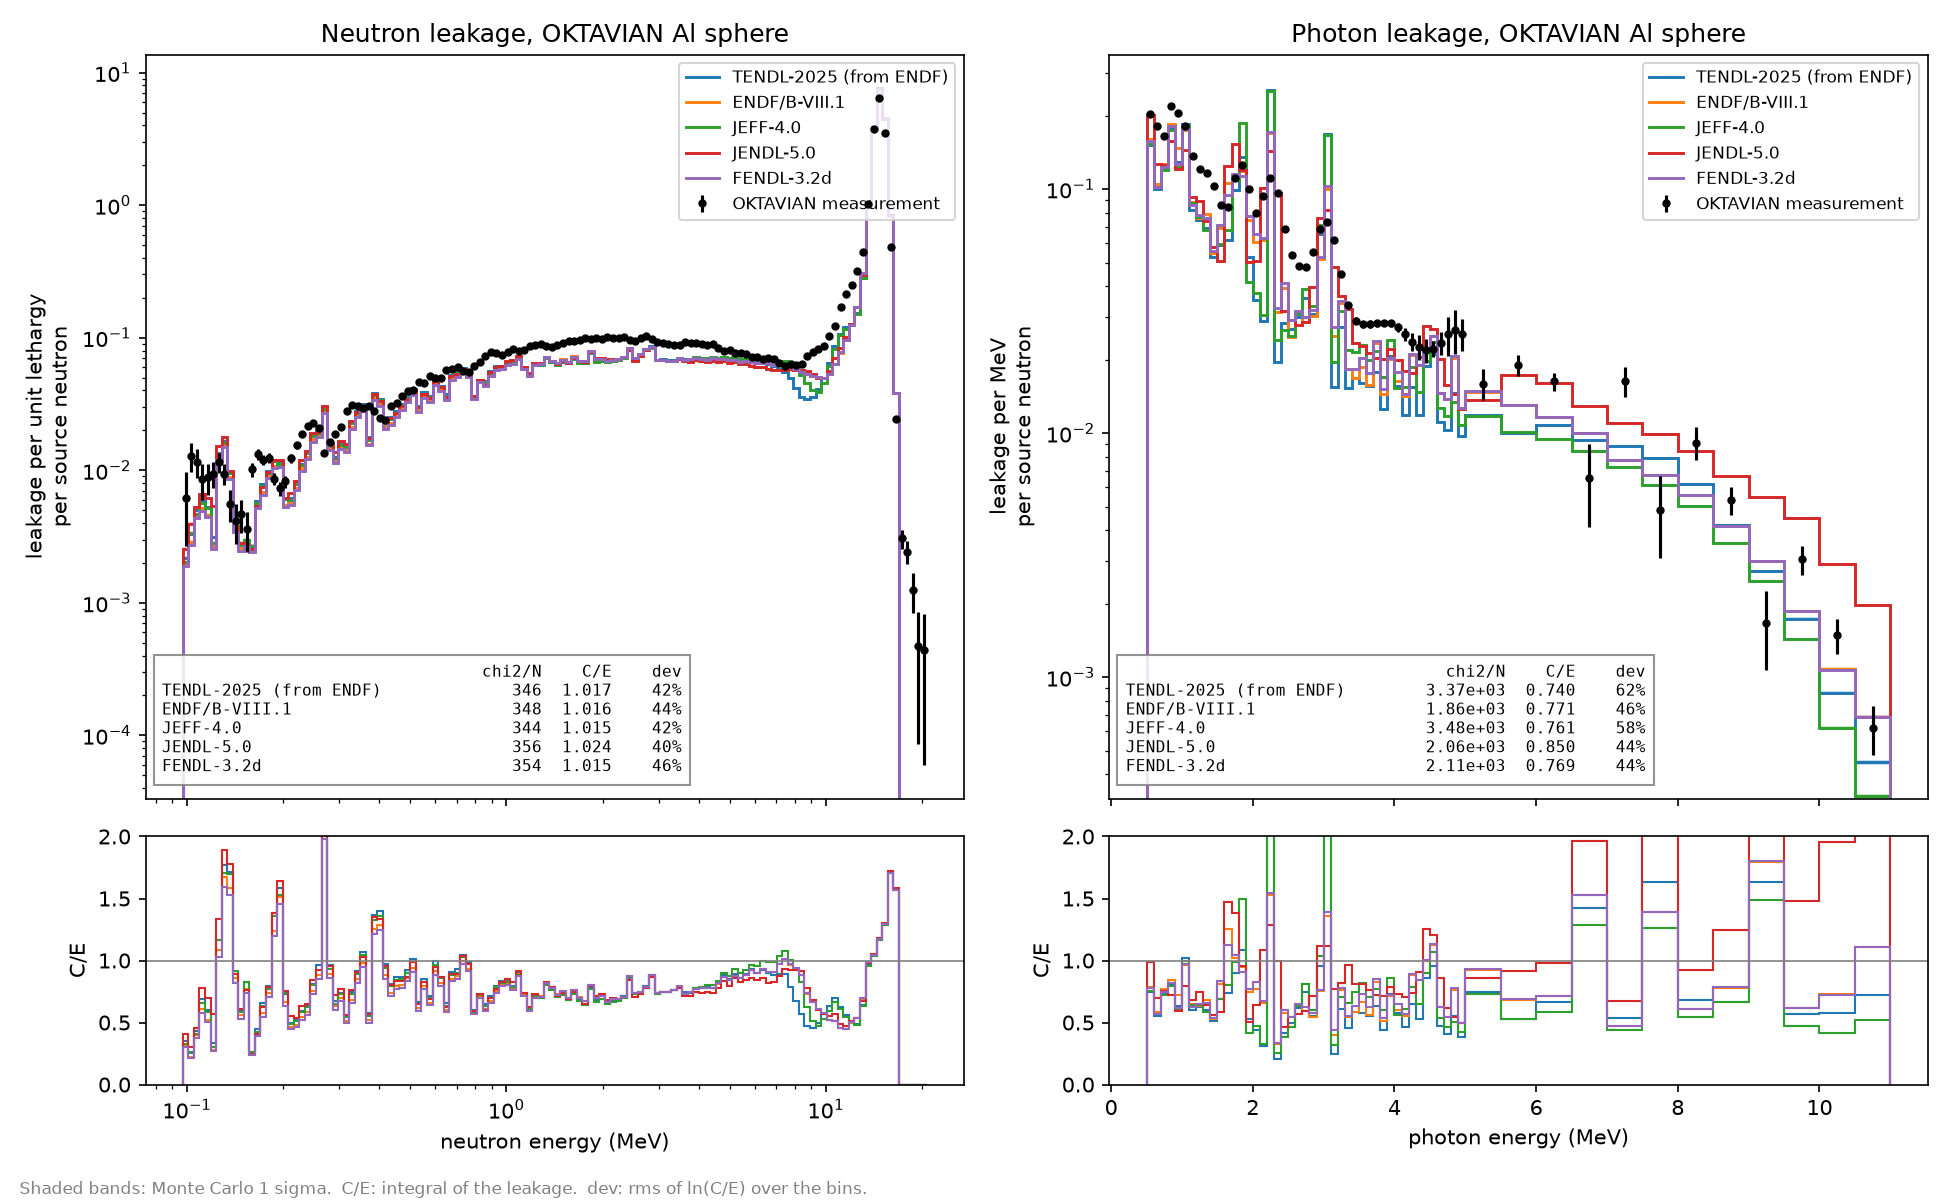
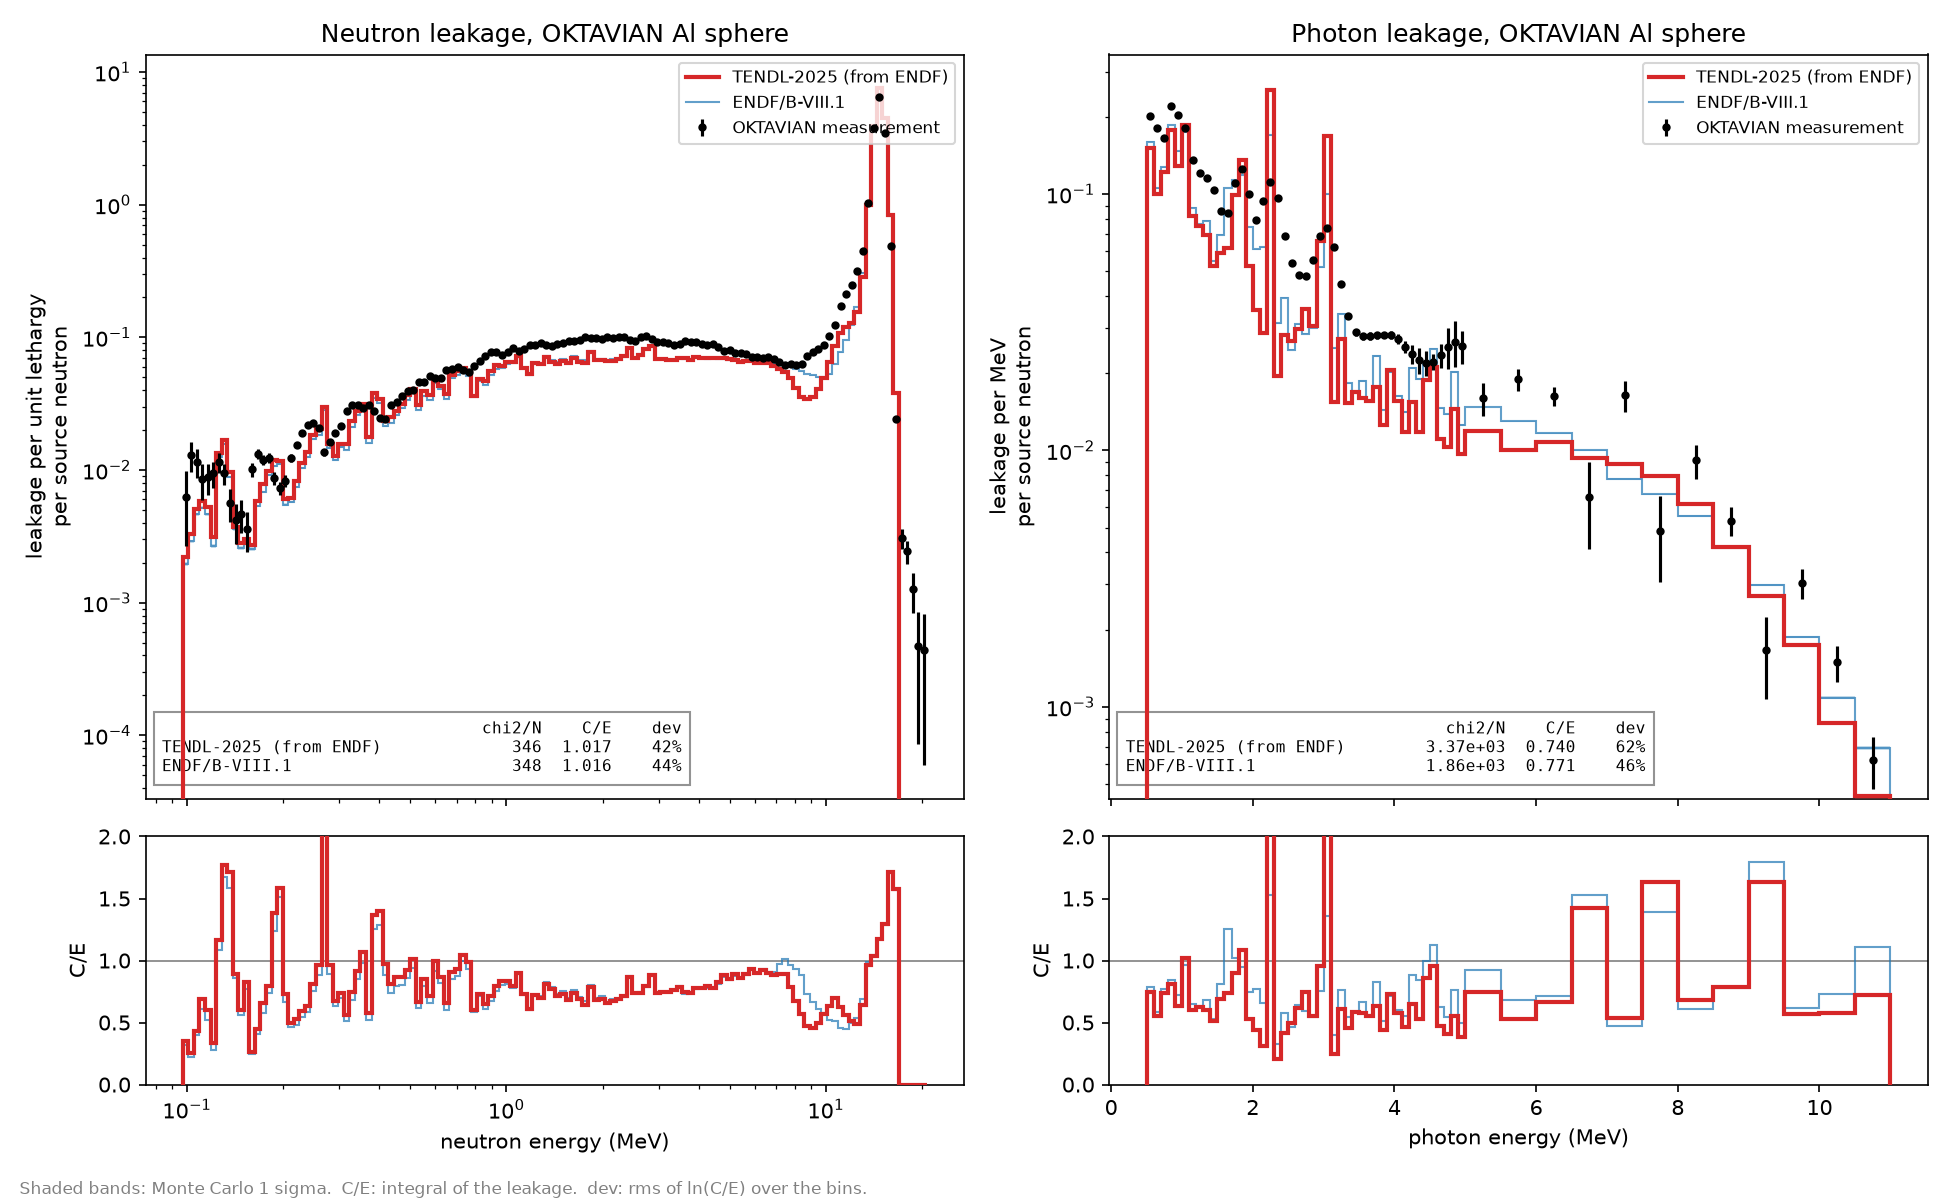
Make the evaluation under test stand out in the plot
The first case is drawn thick, in red and on top; reference libraries are
thinner and fainter behind it, so it stays visible however many are compared.
The README plot compares against ENDF/B-VIII.1 only.

diff --git a/run_simulation.py b/run_simulation.py
@@ -362,15 +362,21 @@ def plot(experiment, results, out):
         lines = []
         for i, case in enumerate(results):
             calc, err = case[particle]["value"], case[particle]["error"]
-            colour = f"C{i}"
-            top.stairs(calc, mev, color=colour, lw=1.4, label=case["label"])
+            # The first case is the evaluation under test: drawn thick, red and
+            # on top. The reference libraries are thinner and fainter behind it.
+            under_test = i == 0
+            colour = "C3" if under_test else ["C0", "C2", "C4", "C1", "C5", "C6"][(i - 1) % 6]
+            style = ({"lw": 2.0, "alpha": 1.0, "zorder": 4} if under_test
+                     else {"lw": 1.0, "alpha": 0.7, "zorder": 3})
+            top.stairs(calc, mev, color=colour, label=case["label"], **style)
             # The Monte Carlo statistical error, +/- 1 sigma. If it is visibly
             # wide anywhere, run more histories (--particles).
             top.stairs([c + e for c, e in zip(calc, err)], mev,
                        baseline=[max(c - e, 0) for c, e in zip(calc, err)],
-                       fill=True, color=colour, alpha=0.25, lw=0)
+                       fill=True, color=colour, alpha=0.25, lw=0, zorder=style["zorder"])
             ce = case[particle]["c_over_e"]
-            bottom.stairs([math.nan if v is None else v for v in ce], mev, color=colour)
+            bottom.stairs([math.nan if v is None else v for v in ce], mev, color=colour,
+                          **style)
             fit = case[particle]["fit"]
             lines.append(f"{case['label'][:28]:28s} {fit['chi2_per_bin']:9.3g} "
                          f"{fit['integral_c_over_e']:6.3f} {fit['bin_deviation_percent']:5.0f}%")

diff --git a/README.md b/README.md
@@ -43,10 +43,12 @@ python run_simulation.py     # transport, comparison, results/oktavian_al.png
 The plot above is
 
 ```bash
-python run_simulation.py --compare endf-b8.1 jeff-4.0 jendl-5.0 fendl-3.2d
+python run_simulation.py --compare endf-b8.1
 ```
 
-Each case is 10 million source neutrons, about 5 seconds.
+The first case, the evaluation under test, is drawn thick and on top; the
+references are fainter lines behind it. Each case is 10 million source
+neutrons, about 5 seconds.
 
 ## Testing your own evaluation
 
